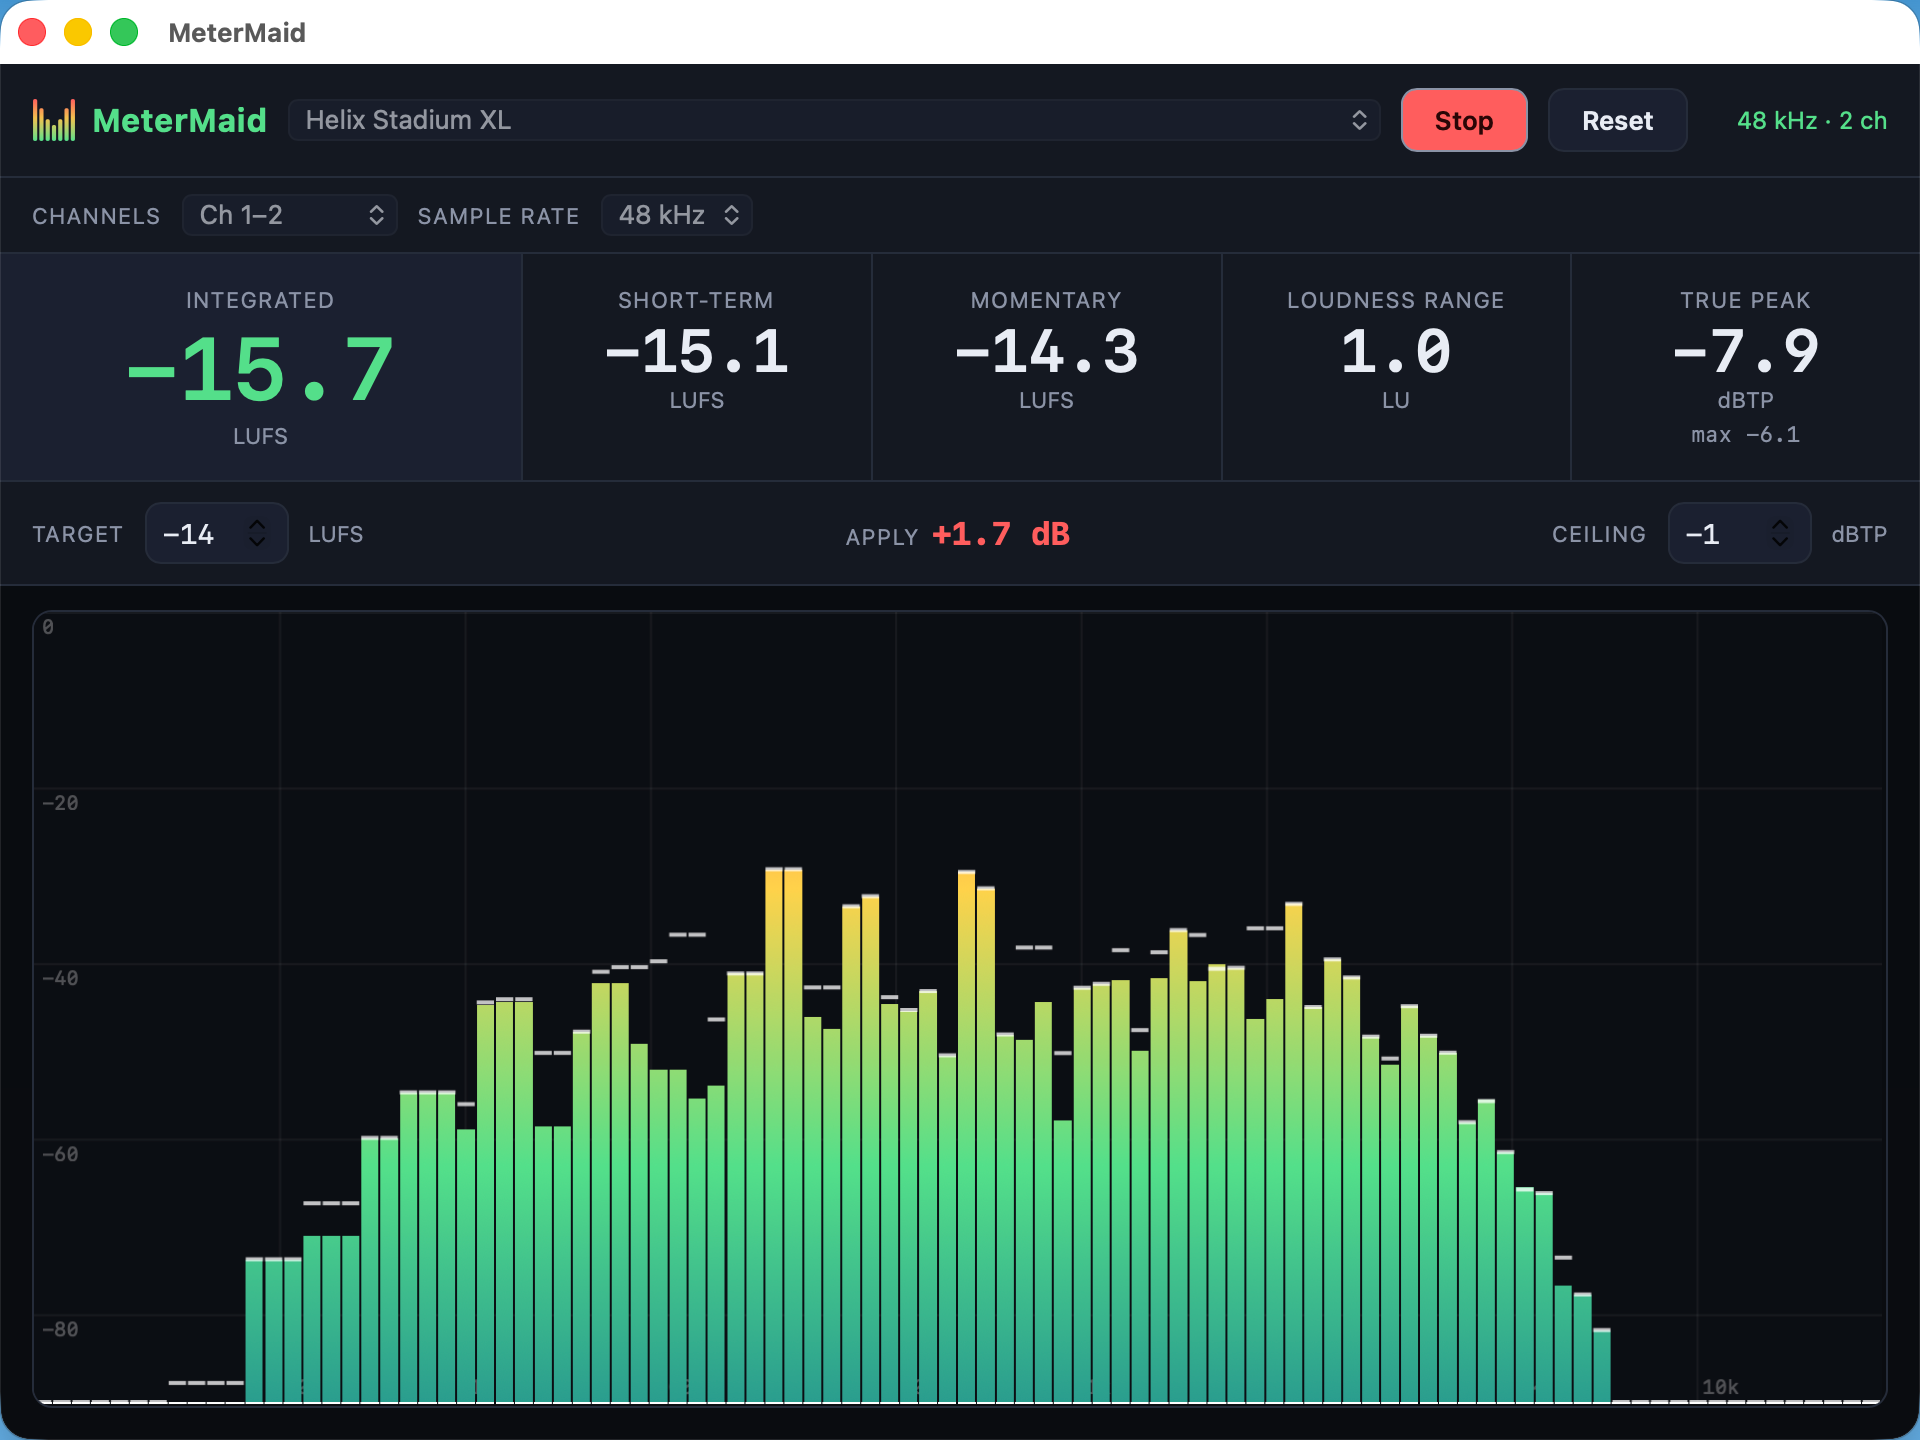
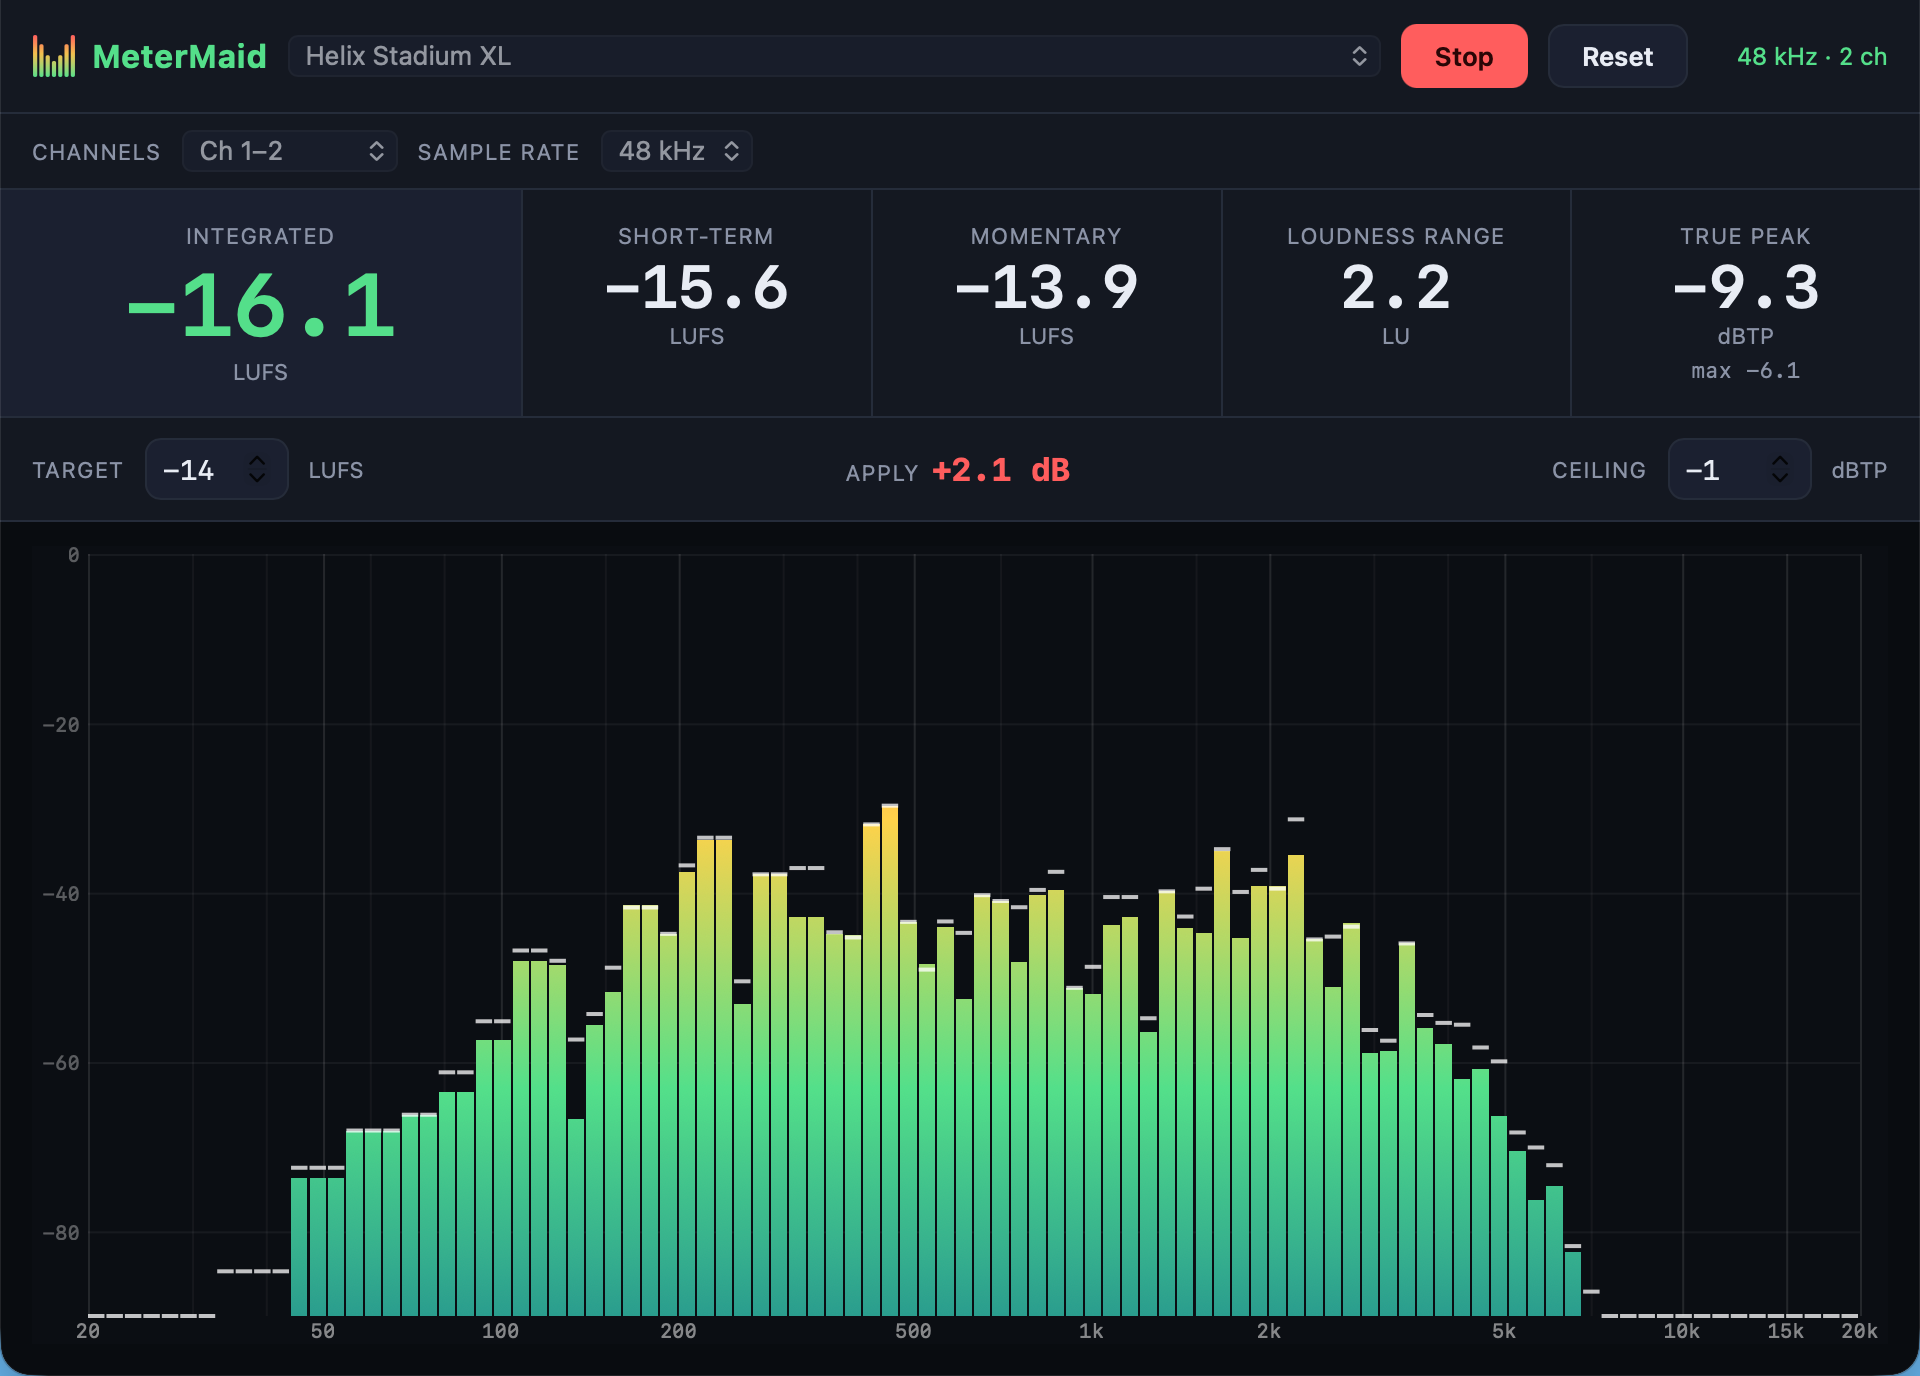
Move spectrum axis labels into gutters and densify frequency grid
Reserve left/bottom gutters so dB and frequency labels render outside the
plot area instead of being covered by the bars. Add major/minor frequency
grid ticks (20 Hz–20 kHz) with label-collision avoidance, drop the canvas
border, and refresh the README screenshot.

diff --git a/src/main.ts b/src/main.ts
@@ -246,8 +246,40 @@ function resizeCanvas() {
   ctx.setTransform(dpr, 0, 0, dpr, 0, 0);
 }
 
-// Reference grid lines at musically useful frequencies.
-const GRID_HZ = [50, 100, 200, 500, 1000, 2000, 5000, 10000];
+// Reference grid lines at musically useful frequencies. `major` ticks get a
+// brighter line plus a text label; the rest are faint, unlabeled minor ticks
+// that help pinpoint which frequency is spiking without cluttering the axis.
+const GRID_HZ: { hz: number; major: boolean }[] = [
+  { hz: 20, major: true },
+  { hz: 30, major: false },
+  { hz: 40, major: false },
+  { hz: 50, major: true },
+  { hz: 60, major: false },
+  { hz: 80, major: false },
+  { hz: 100, major: true },
+  { hz: 150, major: false },
+  { hz: 200, major: true },
+  { hz: 300, major: false },
+  { hz: 400, major: false },
+  { hz: 500, major: true },
+  { hz: 700, major: false },
+  { hz: 1000, major: true },
+  { hz: 1500, major: false },
+  { hz: 2000, major: true },
+  { hz: 3000, major: false },
+  { hz: 4000, major: false },
+  { hz: 5000, major: true },
+  { hz: 7000, major: false },
+  { hz: 10000, major: true },
+  { hz: 15000, major: true },
+  { hz: 20000, major: true },
+];
+
+function fmtHz(hz: number): string {
+  if (hz < 1000) return `${hz}`;
+  const k = hz / 1000;
+  return `${Number.isInteger(k) ? k : k.toFixed(1)}k`;
+}
 
 function hzToX(hz: number, w: number, nyquist: number): number {
   const fLo = 20;
@@ -255,6 +287,13 @@ function hzToX(hz: number, w: number, nyquist: number): number {
   const t = Math.log(hz / fLo) / Math.log(fHi / fLo);
   return t * w;
 }
+
+// Gutters reserved outside the plot area so axis labels stay legible — the
+// bars never draw over them. Left holds the dB scale, bottom the frequencies.
+const PLOT_PAD_LEFT = 28;
+const PLOT_PAD_BOTTOM = 14;
+const PLOT_PAD_TOP = 4;
+const PLOT_PAD_RIGHT = 14;
 
 function drawSpectrum(dt: number) {
   const w = canvas.clientWidth;
@@ -264,33 +303,55 @@ function drawSpectrum(dt: number) {
   ctx.fillStyle = "#0c0e13";
   ctx.fillRect(0, 0, w, h);
 
-  const nyquist = latest ? latest.sampleRate / 2 : 24000;
+  // Inner plot rectangle; everything data-driven is drawn inside this.
+  const pl = PLOT_PAD_LEFT;
+  const pt = PLOT_PAD_TOP;
+  const pw = Math.max(1, w - PLOT_PAD_LEFT - PLOT_PAD_RIGHT);
+  const ph = Math.max(1, h - PLOT_PAD_TOP - PLOT_PAD_BOTTOM);
+  const pb = pt + ph; // plot bottom
 
-  // dB grid lines
-  ctx.strokeStyle = "rgba(255,255,255,0.05)";
-  ctx.fillStyle = "rgba(255,255,255,0.28)";
+  const nyquist = latest ? latest.sampleRate / 2 : 24000;
+  const toY = (db: number) =>
+    pt + ((SPECTRUM_TOP - db) / (SPECTRUM_TOP - SPECTRUM_FLOOR)) * ph;
+
   ctx.font = "10px ui-monospace, monospace";
   ctx.lineWidth = 1;
+
+  // dB grid lines + labels in the left gutter
+  ctx.strokeStyle = "rgba(255,255,255,0.05)";
+  ctx.textBaseline = "middle";
+  ctx.textAlign = "right";
   for (let db = SPECTRUM_TOP; db >= SPECTRUM_FLOOR; db -= 20) {
-    const y = ((SPECTRUM_TOP - db) / (SPECTRUM_TOP - SPECTRUM_FLOOR)) * h;
+    const y = toY(db);
     ctx.beginPath();
-    ctx.moveTo(0, y + 0.5);
-    ctx.lineTo(w, y + 0.5);
+    ctx.moveTo(pl, y + 0.5);
+    ctx.lineTo(pl + pw, y + 0.5);
     ctx.stroke();
-    ctx.fillText(`${db}`, 4, y + 11);
+    ctx.fillStyle = "rgba(255,255,255,0.32)";
+    ctx.fillText(`${db}`, pl - 4, y);
   }
 
-  // frequency grid lines
-  for (const hz of GRID_HZ) {
+  // frequency grid lines + labels in the bottom gutter
+  ctx.textBaseline = "alphabetic";
+  ctx.textAlign = "center";
+  let lastLabelX = -Infinity;
+  for (const { hz, major } of GRID_HZ) {
     if (hz >= nyquist) continue;
-    const x = hzToX(hz, w, nyquist);
+    const x = pl + hzToX(hz, pw, nyquist);
+    ctx.strokeStyle = major ? "rgba(255,255,255,0.10)" : "rgba(255,255,255,0.04)";
     ctx.beginPath();
-    ctx.moveTo(x + 0.5, 0);
-    ctx.lineTo(x + 0.5, h);
+    ctx.moveTo(x + 0.5, pt);
+    ctx.lineTo(x + 0.5, pb);
     ctx.stroke();
-    const label = hz >= 1000 ? `${hz / 1000}k` : `${hz}`;
-    ctx.fillText(label, x + 3, h - 4);
+    // Only label major ticks, and skip any that would crowd the previous label
+    // (the log scale compresses the high end where labels would otherwise overlap).
+    if (major && x - lastLabelX >= 24) {
+      ctx.fillStyle = "rgba(255,255,255,0.5)";
+      ctx.fillText(fmtHz(hz), x, h - 3);
+      lastLabelX = x;
+    }
   }
+  ctx.textAlign = "left";
 
   const spec = latest?.spectrum;
   if (!spec || spec.length === 0) return;
@@ -298,12 +359,9 @@ function drawSpectrum(dt: number) {
   const n = spec.length;
   if (peaks.length !== n) peaks = new Array(n).fill(SPECTRUM_FLOOR);
 
-  const toY = (db: number) =>
-    ((SPECTRUM_TOP - db) / (SPECTRUM_TOP - SPECTRUM_FLOOR)) * h;
+  const barW = pw / n;
 
-  const barW = w / n;
-
-  const grad = ctx.createLinearGradient(0, 0, 0, h);
+  const grad = ctx.createLinearGradient(0, pt, 0, pb);
   grad.addColorStop(0, "#ff5d5d");
   grad.addColorStop(0.35, "#ffd24a");
   grad.addColorStop(0.7, "#54e08a");
@@ -313,7 +371,7 @@ function drawSpectrum(dt: number) {
   for (let i = 0; i < n; i++) {
     const db = Math.max(SPECTRUM_FLOOR, Math.min(SPECTRUM_TOP, spec[i]));
     const y = toY(db);
-    ctx.fillRect(i * barW, y, barW - 1, h - y);
+    ctx.fillRect(pl + i * barW, y, barW - 1, pb - y);
 
     if (db > peaks[i]) peaks[i] = db;
     else peaks[i] = Math.max(SPECTRUM_FLOOR, peaks[i] - SPECTRUM_PEAK_DECAY_DB_PER_SEC * dt);
@@ -322,7 +380,7 @@ function drawSpectrum(dt: number) {
   ctx.fillStyle = "rgba(255,255,255,0.75)";
   for (let i = 0; i < n; i++) {
     const y = toY(peaks[i]);
-    ctx.fillRect(i * barW, y - 1, barW - 1, 2);
+    ctx.fillRect(pl + i * barW, y - 1, barW - 1, 2);
   }
 }
 

diff --git a/src/styles.css b/src/styles.css
@@ -292,6 +292,4 @@ body {
   width: 100%;
   height: 100%;
   display: block;
-  border: 1px solid var(--line);
-  border-radius: 10px;
 }

diff --git a/TODO.md b/TODO.md
@@ -21,7 +21,7 @@ Remember and restore app state on launch so the user doesn't reconfigure every t
     if the channel index / rate is no longer valid.
 - [ ] Persist **target LUFS** and **clip ceiling (dBTP)** values.
 - [ ] (Optional) Auto-start capture on launch if a valid device + channels restore.
-- [ ] Add more frequency labels below the spectral graph so that users have a better idea of which ones are spiking
+- [x] Add more frequency labels below the spectral graph so that users have a better idea of which ones are spiking
 
 Implementation notes:
 